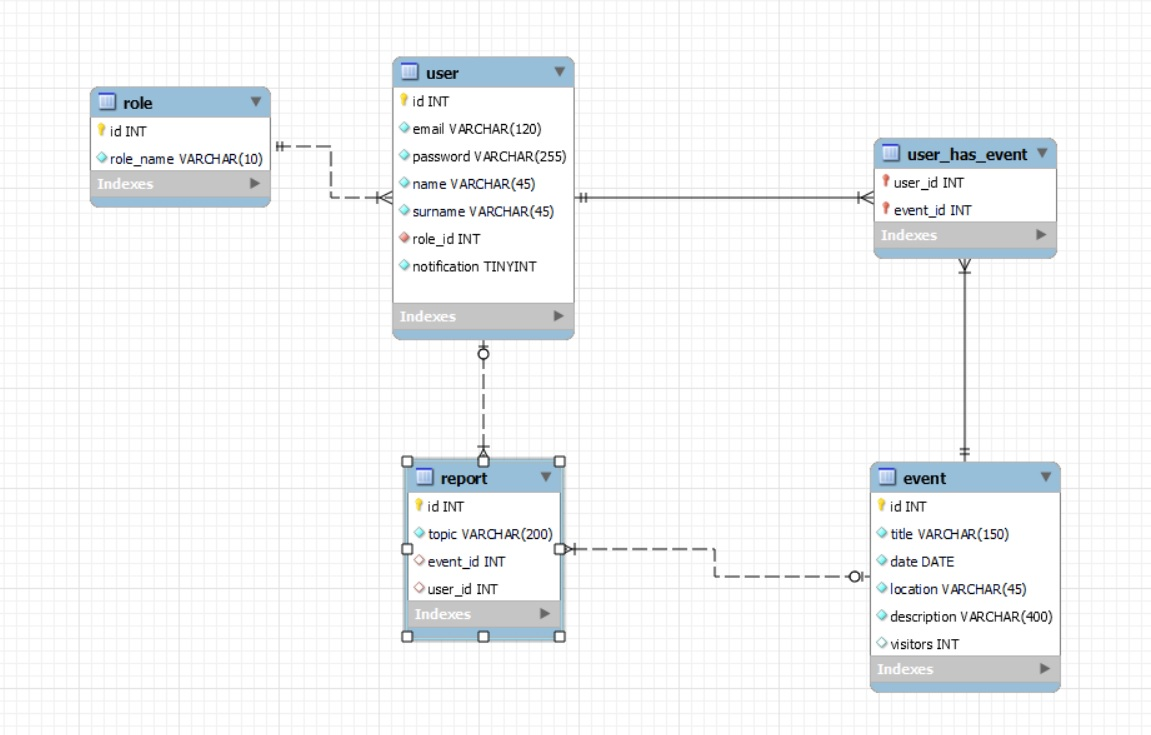
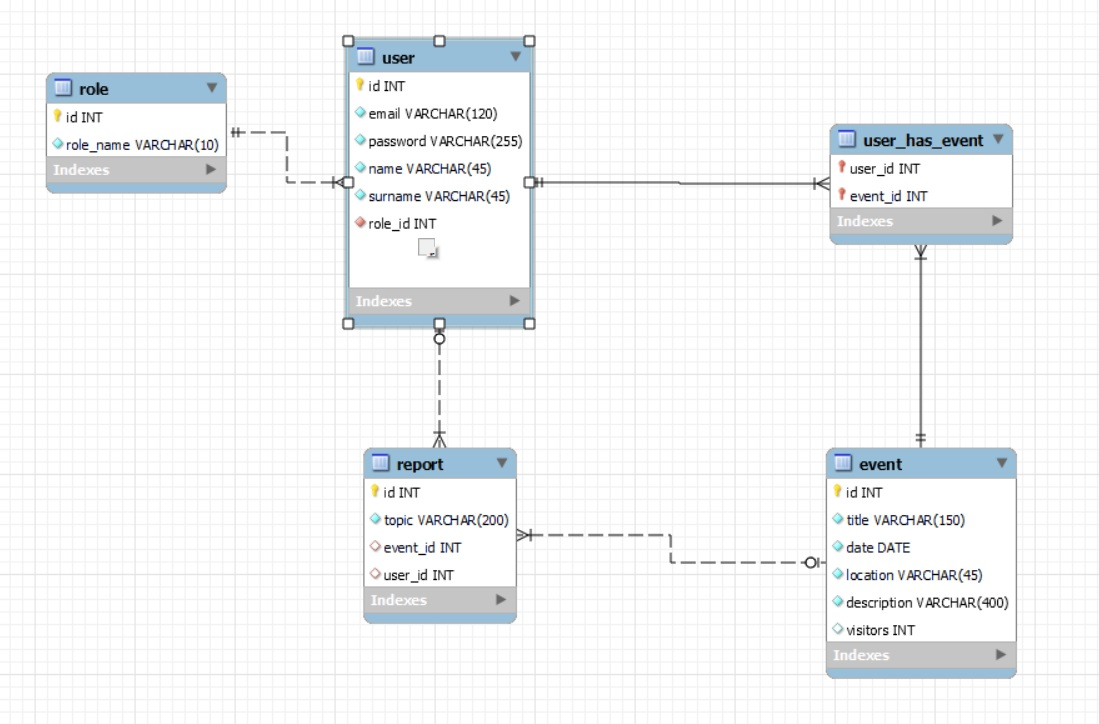
removed notifications, better reset password

diff --git a/src/main/java/ua/java/conferences/controller/actions/implementation/base/ResetPasswordAction.java b/src/main/java/ua/java/conferences/controller/actions/implementation/base/ResetPasswordAction.java
@@ -1,7 +1,6 @@
 package ua.java.conferences.controller.actions.implementation.base;
 
-import jakarta.servlet.http.HttpServletRequest;
-import jakarta.servlet.http.HttpServletResponse;
+import jakarta.servlet.http.*;
 import ua.java.conferences.controller.context.AppContext;
 import ua.java.conferences.controller.actions.Action;
 import ua.java.conferences.dto.UserDTO;
@@ -9,6 +8,8 @@ import ua.java.conferences.exceptions.*;
 import ua.java.conferences.model.services.*;
 import ua.java.conferences.utils.EmailSender;
 
+import static ua.java.conferences.controller.actions.ActionUtil.*;
+import static ua.java.conferences.controller.actions.constants.ActionNames.PASSWORD_RESET_ACTION;
 import static ua.java.conferences.controller.actions.constants.Pages.*;
 import static ua.java.conferences.controller.actions.constants.ParameterValues.CHECK_EMAIL;
 import static ua.java.conferences.controller.actions.constants.Parameters.*;
@@ -25,16 +26,28 @@ public class ResetPasswordAction implements Action {
 
     @Override
     public String execute(HttpServletRequest request, HttpServletResponse response) throws ServiceException {
+        return isPostMethod(request) ? executePost(request) : executeGet(request);
+    }
+
+    private String executeGet(HttpServletRequest request) {
+        transferStringFromSessionToRequest(request, EMAIL);
+        transferStringFromSessionToRequest(request, ERROR);
+        transferStringFromSessionToRequest(request, MESSAGE);
+        return RESET_PASSWORD_PAGE;
+    }
+
+    private String executePost(HttpServletRequest request) throws ServiceException {
         String email = request.getParameter(EMAIL);
+        request.getSession().setAttribute(EMAIL, email);
         try {
             UserDTO user = userService.getByEmail(email);
             String newPass = userService.changePassword(user.getId());
-            request.setAttribute(MESSAGE, CHECK_EMAIL);
+            request.getSession().setAttribute(MESSAGE, CHECK_EMAIL);
             sendEmail(user, newPass);
         } catch (IncorrectFormatException | NoSuchUserException e) {
-            request.setAttribute(ERROR, e.getMessage());
+            request.getSession().setAttribute(ERROR, e.getMessage());
         }
-        return RESET_PASSWORD_PAGE;
+        return getActionToRedirect(PASSWORD_RESET_ACTION);
     }
 
     private void sendEmail(UserDTO user, String newPass)  {

diff --git a/src/main/java/ua/java/conferences/model/dao/mysql/constants/UserSQLQueries.java b/src/main/java/ua/java/conferences/model/dao/mysql/constants/UserSQLQueries.java
@@ -1,7 +1,7 @@
 package ua.java.conferences.model.dao.mysql.constants;
 
 public final class UserSQLQueries {
-    public static final String ADD_USER = "INSERT INTO user (email, password, name, surname, notification) VALUES (?,?,?,?,?)";
+    public static final String ADD_USER = "INSERT INTO user (email, password, name, surname) VALUES (?,?,?,?)";
     public static final String GET_USER_BY_ID = "SELECT * FROM user WHERE id=?";
     public static final String GET_USER_BY_EMAIL = "SELECT * FROM user WHERE email=?";
     public static final String GET_USERS = "SELECT * FROM user";
@@ -11,7 +11,7 @@ public final class UserSQLQueries {
             "WHERE event_id=? GROUP BY user.id";
     public static final String GET_SORTED = "SELECT * FROM user %s";
     public static final String GET_NUMBER_OF_RECORDS = "SELECT COUNT(id) AS numberOfRecords FROM user %s";
-    public static final String UPDATE_USER = "UPDATE user SET email=?, name=?, surname=?, notification=? WHERE id=?";
+    public static final String UPDATE_USER = "UPDATE user SET email=?, name=?, surname=? WHERE id=?";
     public static final String UPDATE_PASSWORD = "UPDATE user SET password=? WHERE id=?";
     public static final String SET_ROLE = "UPDATE user SET role_id=? WHERE email=?";
     public static final String DELETE_USER = "DELETE FROM user WHERE id=?";

diff --git a/src/main/java/ua/java/conferences/model/dao/mysql/MysqlUserDAO.java b/src/main/java/ua/java/conferences/model/dao/mysql/MysqlUserDAO.java
@@ -224,7 +224,6 @@ public class MysqlUserDAO implements UserDAO {
                 .name(resultSet.getString(NAME))
                 .surname(resultSet.getString(SURNAME))
                 .password(resultSet.getString(PASSWORD))
-                .emailNotification(resultSet.getInt(NOTIFICATION) == 1)
                 .roleId(resultSet.getInt(ROLE_ID))
                 .build();
     }
@@ -235,7 +234,6 @@ public class MysqlUserDAO implements UserDAO {
         preparedStatement.setString(++k, user.getPassword());
         preparedStatement.setString(++k, user.getName());
         preparedStatement.setString(++k, user.getSurname());
-        preparedStatement.setInt(++k, user.isEmailNotification() ? 1 : 0);
     }
 
     private static void setStatementFieldsForUpdateMethod(User user, PreparedStatement preparedStatement)
@@ -244,7 +242,6 @@ public class MysqlUserDAO implements UserDAO {
         preparedStatement.setString(++k, user.getEmail());
         preparedStatement.setString(++k, user.getName());
         preparedStatement.setString(++k, user.getSurname());
-        preparedStatement.setInt(++k, user.isEmailNotification() ? 1 : 0);
         preparedStatement.setLong(++k, user.getId());
     }
 

diff --git a/src/main/java/ua/java/conferences/utils/constants/Email.java b/src/main/java/ua/java/conferences/utils/constants/Email.java
@@ -86,13 +86,13 @@ public class Email {
     public static final String MESSAGE_REMOVE_SPEAKER = HELLO +
             INFORMATION +
             DOUBLE_ENTER +
-            "You were removed as speaker at report \"%s\" at %s (%s %s) due to important circumstances" +
+            "You were removed as speaker for report \"%s\" at %s (%s %s) due to important circumstances" +
             DOUBLE_ENTER +
             SIGNATURE;
     public static final String MESSAGE_SET_SPEAKER = HELLO +
             INFORMATION +
             DOUBLE_ENTER +
-            "You were set as speaker at report \"%s\" at %s (%s %s) due to important circumstances" +
+            "You were set as speaker for report \"%s\" at %s (%s %s) due to important circumstances" +
             DOUBLE_ENTER +
             SIGNATURE;
     public static final String MESSAGE_OFFER_REPORT = HELLO +

diff --git a/src/main/java/ua/java/conferences/controller/actions/implementation/base/EditProfileAction.java b/src/main/java/ua/java/conferences/controller/actions/implementation/base/EditProfileAction.java
@@ -53,19 +53,12 @@ public class EditProfileAction implements Action {
                 .email(request.getParameter(EMAIL))
                 .name(request.getParameter(NAME))
                 .surname(request.getParameter(SURNAME))
-                .notification(isNotified(request))
                 .build();
-    }
-
-    private boolean isNotified(HttpServletRequest request) {
-        String notification = request.getParameter(NOTIFICATION);
-        return notification != null && notification.equals("on");
     }
 
     private void updateSessionUser(UserDTO currentUser, UserDTO user) {
         currentUser.setEmail(user.getEmail());
         currentUser.setName(user.getName());
         currentUser.setSurname(user.getSurname());
-        currentUser.setNotification(user.isNotification());
     }
 }

diff --git a/src/test/java/ua/java/conferences/controller/actions/ActionUtilTest.java b/src/test/java/ua/java/conferences/controller/actions/ActionUtilTest.java
@@ -12,7 +12,6 @@ import static ua.java.conferences.Constants.DESCRIPTION;
 import static ua.java.conferences.Constants.EMAIL;
 import static ua.java.conferences.Constants.LOCATION;
 import static ua.java.conferences.Constants.NAME;
-import static ua.java.conferences.Constants.NOTIFICATION;
 import static ua.java.conferences.Constants.REGISTRATIONS;
 import static ua.java.conferences.Constants.REPORTS;
 import static ua.java.conferences.Constants.ROLE_VISITOR;
@@ -123,7 +122,6 @@ class ActionUtilTest {
                 .email(EMAIL)
                 .name(NAME)
                 .surname(SURNAME)
-                .notification(NOTIFICATION)
                 .role(ROLE_VISITOR)
                 .build();
     }

diff --git a/src/main/java/ua/java/conferences/utils/ConvertorUtil.java b/src/main/java/ua/java/conferences/utils/ConvertorUtil.java
@@ -16,7 +16,6 @@ public final class ConvertorUtil {
                 .email(userDTO.getEmail())
                 .name(userDTO.getName())
                 .surname(userDTO.getSurname())
-                .emailNotification(userDTO.isNotification())
                 .build();
     }
 
@@ -26,7 +25,6 @@ public final class ConvertorUtil {
                 .email(user.getEmail())
                 .name(user.getName())
                 .surname(user.getSurname())
-                .notification(user.isEmailNotification())
                 .role(String.valueOf(Role.getRole(user.getRoleId())))
                 .build();
     }

diff --git a/src/test/java/ua/java/conferences/utils/ConvertorUtilTest.java b/src/test/java/ua/java/conferences/utils/ConvertorUtilTest.java
@@ -27,7 +27,6 @@ class ConvertorUtilTest {
         UserDTO userToDTO = convertUserToDTO(getTestUser());
         assertEquals(testDTO, userToDTO);
         assertEquals(testDTO.getId(), userToDTO.getId());
-        assertEquals(testDTO.isNotification(), userToDTO.isNotification());
         assertEquals(testDTO.getRole(), userToDTO.getRole());
     }
 
@@ -85,7 +84,6 @@ class ConvertorUtilTest {
                 .email(EMAIL)
                 .name(NAME)
                 .surname(SURNAME)
-                .notification(NOTIFICATION)
                 .role(ROLE_VISITOR)
                 .build();
     }

diff --git a/src/main/java/ua/java/conferences/controller/actions/implementation/base/SignUpAction.java b/src/main/java/ua/java/conferences/controller/actions/implementation/base/SignUpAction.java
@@ -67,12 +67,6 @@ public class SignUpAction implements Action {
                 .email(request.getParameter(EMAIL))
                 .name(request.getParameter(NAME))
                 .surname(request.getParameter(SURNAME))
-                .notification(isNotified(request))
                 .build();
-    }
-
-    private static boolean isNotified(HttpServletRequest request) {
-        String notification = request.getParameter(NOTIFICATION);
-        return notification != null && notification.equals("on");
     }
 }

diff --git a/src/main/java/ua/java/conferences/controller/actions/constants/Parameters.java b/src/main/java/ua/java/conferences/controller/actions/constants/Parameters.java
@@ -14,7 +14,6 @@ public final class Parameters {
     public static final String OLD_PASSWORD = "old-password";
     public static final String NAME = "name";
     public static final String SURNAME = "surname";
-    public static final String NOTIFICATION = "notification";
     public static final String IS_REGISTERED = "isRegistered";
     public static final String IS_COMING = "isComing";
     public static final String EVENT_ID = "event-id";

diff --git a/src/test/java/ua/java/conferences/Constants.java b/src/test/java/ua/java/conferences/Constants.java
@@ -20,7 +20,6 @@ public final class Constants {
     public static final String SURNAME = "Yi";
     public static final String INCORRECT_SURNAME = "";
     public static final String SPEAKER_NAME = "Joe Yi";
-    public static final boolean NOTIFICATION = false;
     public static final String ROLE_VISITOR = "VISITOR";
     public static final int ROLE_ID = 4;
     public static final String TOPIC = "Report topic";

diff --git a/src/main/java/ua/java/conferences/controller/actions/implementation/base/SignInAction.java b/src/main/java/ua/java/conferences/controller/actions/implementation/base/SignInAction.java
@@ -44,7 +44,7 @@ public class SignInAction implements Action {
             path = SIGN_IN_PAGE;
         }
         request.getSession().setAttribute(CURRENT_PATH, path);
-        return getActionToRedirect(SIGN_IN_ACTION) ;
+        return getActionToRedirect(SIGN_IN_ACTION);
     }
 
     private static void setLoggedUser(HttpServletRequest request, UserDTO user) {
